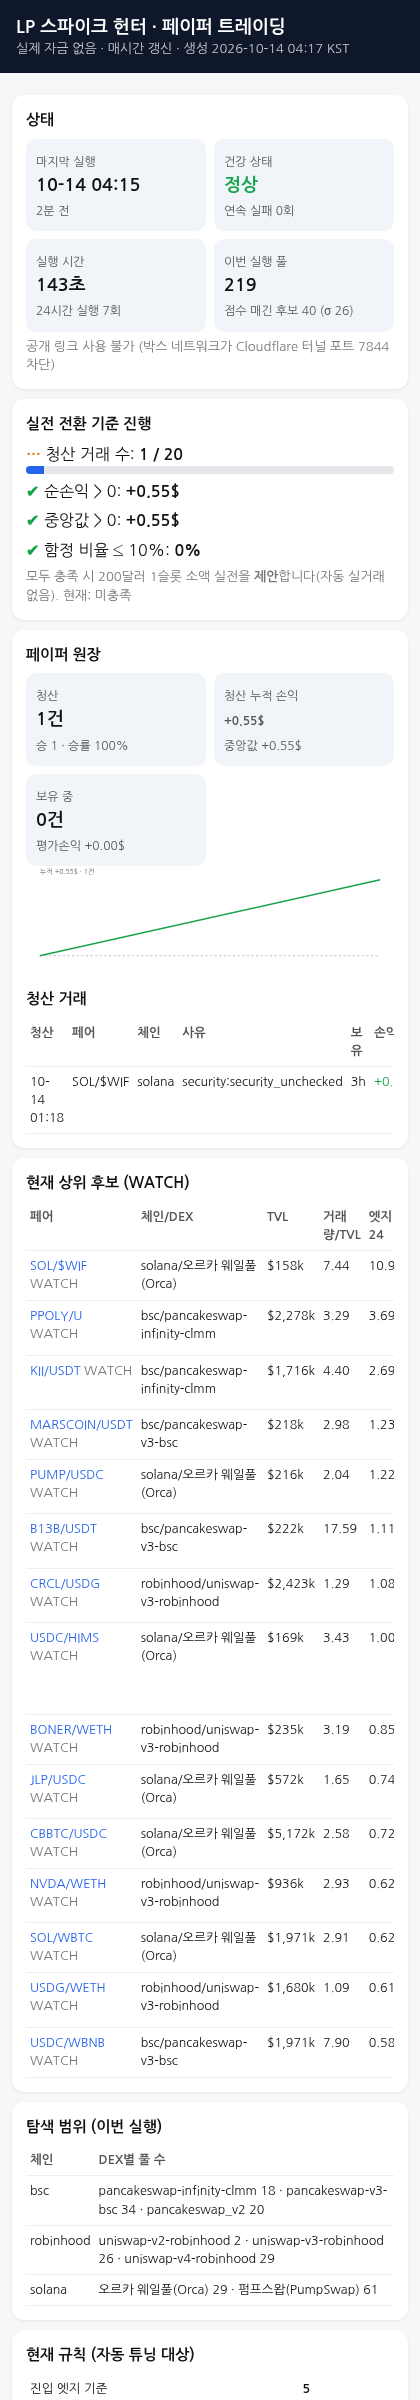
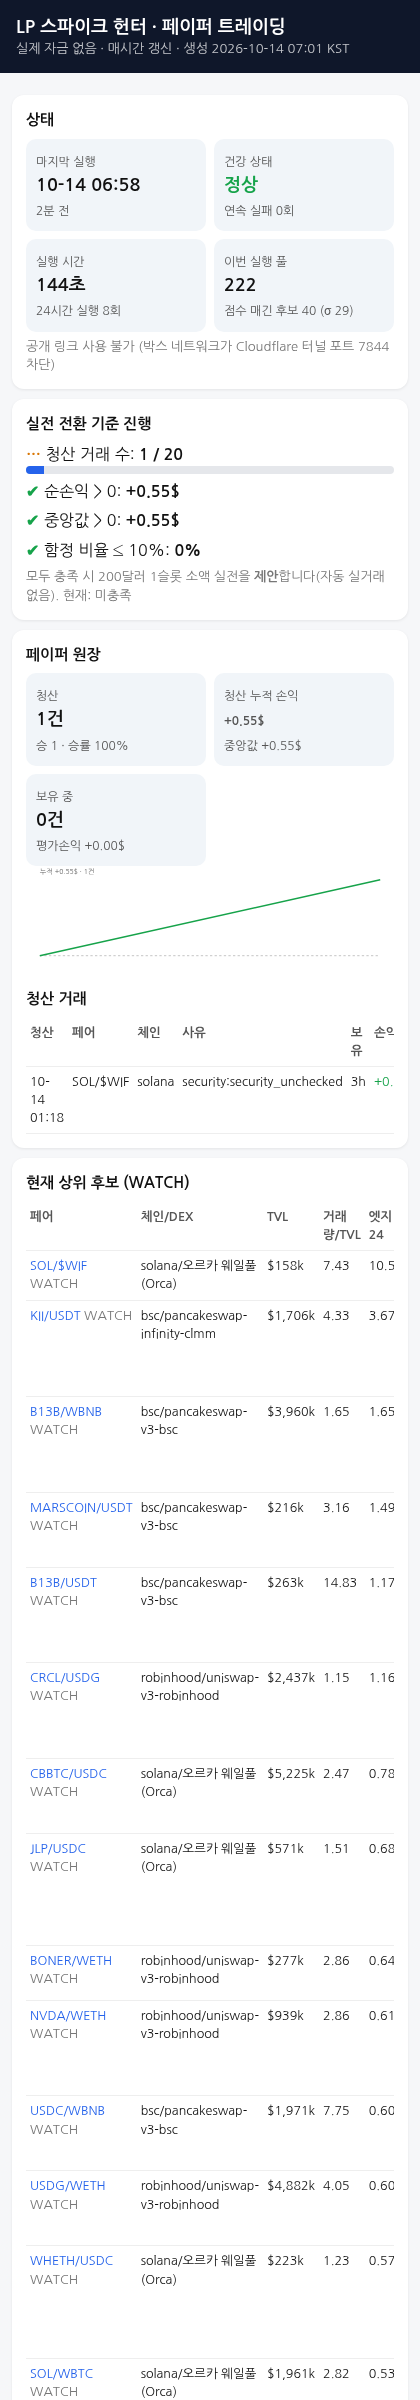
update 2026-10-14 07:01 KST

diff --git a/index.html b/index.html
@@ -12,12 +12,12 @@ th{color:#555;font-weight:600} .scroll{overflow-x:auto} .pos{color:#16a34a} .neg
 .bar{height:8px;background:#e5e7eb;border-radius:4px;overflow:hidden} .bar i{display:block;height:100%;background:#2563eb}
 .chart{width:100%;height:auto} a{color:#2563eb;text-decoration:none} .chg{color:#7c3aed;font-weight:600}
 </style></head><body>
-<header><h1>LP 스파이크 헌터 · 페이퍼 트레이딩</h1><div class="sub">실제 자금 없음 · 매시간 갱신 · 생성 2026-10-14 04:17 KST</div></header><main>
+<header><h1>LP 스파이크 헌터 · 페이퍼 트레이딩</h1><div class="sub">실제 자금 없음 · 매시간 갱신 · 생성 2026-10-14 07:01 KST</div></header><main>
 <div class="card"><h2>상태</h2><div class="grid">
-<div class="kpi"><span>마지막 실행</span><b>10-14 04:15</b><span>2분 전</span></div>
+<div class="kpi"><span>마지막 실행</span><b>10-14 06:58</b><span>2분 전</span></div>
 <div class="kpi"><span>건강 상태</span><b class="ok">정상</b><span>연속 실패 0회</span></div>
-<div class="kpi"><span>실행 시간</span><b>143초</b><span>24시간 실행 7회</span></div>
-<div class="kpi"><span>이번 실행 풀</span><b>219</b><span>점수 매긴 후보 40 (σ 26)</span></div>
+<div class="kpi"><span>실행 시간</span><b>144초</b><span>24시간 실행 8회</span></div>
+<div class="kpi"><span>이번 실행 풀</span><b>222</b><span>점수 매긴 후보 40 (σ 29)</span></div>
 </div><div class="muted" style="margin-top:6px">공개 링크 사용 불가 (박스 네트워크가 Cloudflare 터널 포트 7844 차단)</div></div>
 <div class="card"><h2>실전 전환 기준 진행</h2>
 <div style="margin:6px 0"><b class="warn">…</b> 청산 거래 수: <b>1 / 20</b><div class="bar"><i style="width:5%"></i></div></div>
@@ -35,26 +35,26 @@ th{color:#555;font-weight:600} .scroll{overflow-x:auto} .pos{color:#16a34a} .neg
 </table></div>
 </div>
 <div class="card"><h2>현재 상위 후보 (WATCH)</h2><div class="scroll"><table><tr><th>페어</th><th>체인/DEX</th><th>TVL</th><th>거래량/TVL</th><th>엣지24</th><th>엣지6</th><th>진입 안 하는 이유</th></tr>
-<tr><td><a href='https://www.geckoterminal.com/solana/pools/D6NdKrKNQPmRZCCnG1GqXtF7MMoHB7qR6GU5TkG59Qz1'>SOL/$WIF</a> <span class='muted'>WATCH</span></td><td>solana/오르카 웨일풀(Orca)</td><td>$158k</td><td>7.44</td><td>10.97</td><td>4.77</td><td><span class="tag">6h 엣지 부족 (edge6&lt;5)</span><span class="tag">재진입 대기</span></td></tr>
-<tr><td><a href='https://www.geckoterminal.com/bsc/pools/0xe2d5738b246526194b19adf0dcdf5fc511126d276798e8fe5102ed464f7720e2'>PPOLY/U</a> <span class='muted'>WATCH</span></td><td>bsc/pancakeswap-infinity-clmm</td><td>$2,278k</td><td>3.29</td><td>3.69</td><td>2.36</td><td><span class="tag">24h 엣지 부족 (edge24&lt;5)</span><span class="tag">6h 엣지 부족 (edge6&lt;5)</span><span class="tag">보안 플래그 (security:mintable)</span><span class="tag">정산 자산 없음</span><span class="tag">정산 자산 없음</span></td></tr>
-<tr><td><a href='https://www.geckoterminal.com/bsc/pools/0xf43fdb854021ddeb41e06ac1d6e5df475197038ba5d3cba147f469a56870cd1b'>KII/USDT</a> <span class='muted'>WATCH</span></td><td>bsc/pancakeswap-infinity-clmm</td><td>$1,716k</td><td>4.40</td><td>2.69</td><td>2.51</td><td><span class="tag">24h 엣지 부족 (edge24&lt;5)</span><span class="tag">6h 엣지 부족 (edge6&lt;5)</span><span class="tag">보안 플래그 (security:top10_holders=99%)</span><span class="tag">수수료&lt;비용 (fee24&lt;2x_cost)</span></td></tr>
-<tr><td><a href='https://www.geckoterminal.com/bsc/pools/0x14ca9d552ed2cf0d5dfd1f89bc6793a464e2ed16'>MARSCOIN/USDT</a> <span class='muted'>WATCH</span></td><td>bsc/pancakeswap-v3-bsc</td><td>$218k</td><td>2.98</td><td>1.23</td><td>0.82</td><td><span class="tag">24h 엣지 부족 (edge24&lt;5)</span><span class="tag">6h 엣지 부족 (edge6&lt;5)</span><span class="tag">보안 플래그 (security:top10_holders=61%)</span></td></tr>
-<tr><td><a href='https://www.geckoterminal.com/solana/pools/4AFAkCSkSNmra64irggEFd8ZtF4WCtFe51qVaFFNBL2D'>PUMP/USDC</a> <span class='muted'>WATCH</span></td><td>solana/오르카 웨일풀(Orca)</td><td>$216k</td><td>2.04</td><td>1.22</td><td>1.35</td><td><span class="tag">24h 엣지 부족 (edge24&lt;5)</span><span class="tag">6h 엣지 부족 (edge6&lt;5)</span><span class="tag">보안 플래그 (security:transfer_hook_upgradable|top10_holders=60%)</span></td></tr>
-<tr><td><a href='https://www.geckoterminal.com/bsc/pools/0xb754f10cebf50b8862444cf4d6c1cc31a3b71c18'>B13B/USDT</a> <span class='muted'>WATCH</span></td><td>bsc/pancakeswap-v3-bsc</td><td>$222k</td><td>17.59</td><td>1.11</td><td>1.81</td><td><span class="tag">24h 엣지 부족 (edge24&lt;5)</span><span class="tag">6h 엣지 부족 (edge6&lt;5)</span><span class="tag">보안 플래그 (security:security_unchecked)</span><span class="tag">수수료&lt;비용 (fee24&lt;2x_cost)</span></td></tr>
-<tr><td><a href='https://www.geckoterminal.com/robinhood/pools/0x654e4143e82a5824445ade0824351c2a9acd95a8'>CRCL/USDG</a> <span class='muted'>WATCH</span></td><td>robinhood/uniswap-v3-robinhood</td><td>$2,423k</td><td>1.29</td><td>1.08</td><td>2.05</td><td><span class="tag">24h 엣지 부족 (edge24&lt;5)</span><span class="tag">6h 엣지 부족 (edge6&lt;5)</span><span class="tag">보안 플래그 (security:security_unchecked)</span><span class="tag">수수료&lt;비용 (fee24&lt;2x_cost)</span><span class="tag">유동성 이력 부족(&lt;3h) (k_unsettled(&lt;3h liquidity history))</span></td></tr>
-<tr><td><a href='https://www.geckoterminal.com/solana/pools/7iqWWNjubSTjmWXk9eYJViDLZjBN2KjrYt5Z9j8n8exQ'>USDC/HIMS</a> <span class='muted'>WATCH</span></td><td>solana/오르카 웨일풀(Orca)</td><td>$169k</td><td>3.43</td><td>1.00</td><td>0.62</td><td><span class="tag">24h 엣지 부족 (edge24&lt;5)</span><span class="tag">6h 엣지 부족 (edge6&lt;5)</span><span class="tag">보안 플래그 (security:mintable|freezable|balance_mutable_authority|transfer_hook_upgradable|top10_holders=66%)</span><span class="tag">수수료&lt;비용 (fee24&lt;2x_cost)</span><span class="tag">토큰-2022 위험 확장 (t22:HIMS.pausableConfig|HIMS.permanentDelegate)</span></td></tr>
-<tr><td><a href='https://www.geckoterminal.com/robinhood/pools/0xbd5cd6515ca6285941fbc177381dc8ed4844e6b8'>BONER/WETH</a> <span class='muted'>WATCH</span></td><td>robinhood/uniswap-v3-robinhood</td><td>$235k</td><td>3.19</td><td>0.85</td><td>0.24</td><td><span class="tag">24h 엣지 부족 (edge24&lt;5)</span><span class="tag">6h 엣지 부족 (edge6&lt;5)</span><span class="tag">보안 플래그 (security:security_unchecked)</span></td></tr>
-<tr><td><a href='https://www.geckoterminal.com/solana/pools/6NUiVmsNjsi4AfsMsEiaezsaV9N4N1ZrD4jEnuWNRvyb'>JLP/USDC</a> <span class='muted'>WATCH</span></td><td>solana/오르카 웨일풀(Orca)</td><td>$572k</td><td>1.65</td><td>0.74</td><td>0.66</td><td><span class="tag">24h 엣지 부족 (edge24&lt;5)</span><span class="tag">6h 엣지 부족 (edge6&lt;5)</span><span class="tag">보안 플래그 (security:mintable|freezable|top10_holders=81%)</span><span class="tag">수수료&lt;비용 (fee24&lt;2x_cost)</span></td></tr>
-<tr><td><a href='https://www.geckoterminal.com/solana/pools/HxA6SKW5qA4o12fjVgTpXdq2YnZ5Zv1s7SB4FFomsyLM'>CBBTC/USDC</a> <span class='muted'>WATCH</span></td><td>solana/오르카 웨일풀(Orca)</td><td>$5,172k</td><td>2.58</td><td>0.72</td><td>0.69</td><td><span class="tag">24h 엣지 부족 (edge24&lt;5)</span><span class="tag">6h 엣지 부족 (edge6&lt;5)</span><span class="tag">수수료&lt;비용 (fee24&lt;2x_cost)</span></td></tr>
-<tr><td><a href='https://www.geckoterminal.com/robinhood/pools/0x62ab521f71431f78ac374cdbadc6cda3c8916b6c'>NVDA/WETH</a> <span class='muted'>WATCH</span></td><td>robinhood/uniswap-v3-robinhood</td><td>$936k</td><td>2.93</td><td>0.62</td><td>0.81</td><td><span class="tag">24h 엣지 부족 (edge24&lt;5)</span><span class="tag">6h 엣지 부족 (edge6&lt;5)</span><span class="tag">보안 플래그 (security:security_unchecked)</span><span class="tag">수수료&lt;비용 (fee24&lt;2x_cost)</span><span class="tag">유동성 이력 부족(&lt;3h) (k_unsettled(&lt;3h liquidity history))</span></td></tr>
-<tr><td><a href='https://www.geckoterminal.com/solana/pools/B5EwJVDuAauzUEEdwvbuXzbFFgEYnUqqS37TUM1c4PQA'>SOL/WBTC</a> <span class='muted'>WATCH</span></td><td>solana/오르카 웨일풀(Orca)</td><td>$1,971k</td><td>2.91</td><td>0.62</td><td>0.90</td><td><span class="tag">24h 엣지 부족 (edge24&lt;5)</span><span class="tag">6h 엣지 부족 (edge6&lt;5)</span><span class="tag">수수료&lt;비용 (fee24&lt;2x_cost)</span></td></tr>
-<tr><td><a href='https://www.geckoterminal.com/robinhood/pools/0xa9188730fe85be88ad499d7d52b099e800fb0334'>USDG/WETH</a> <span class='muted'>WATCH</span></td><td>robinhood/uniswap-v3-robinhood</td><td>$1,680k</td><td>1.09</td><td>0.61</td><td>0.39</td><td><span class="tag">24h 엣지 부족 (edge24&lt;5)</span><span class="tag">6h 엣지 부족 (edge6&lt;5)</span><span class="tag">수수료&lt;비용 (fee24&lt;2x_cost)</span><span class="tag">유동성 이력 부족(&lt;3h) (k_unsettled(&lt;3h liquidity history))</span></td></tr>
-<tr><td><a href='https://www.geckoterminal.com/bsc/pools/0xf2688fb5b81049dfb7703ada5e770543770612c4'>USDC/WBNB</a> <span class='muted'>WATCH</span></td><td>bsc/pancakeswap-v3-bsc</td><td>$1,971k</td><td>7.90</td><td>0.58</td><td>0.54</td><td><span class="tag">24h 엣지 부족 (edge24&lt;5)</span><span class="tag">6h 엣지 부족 (edge6&lt;5)</span><span class="tag">수수료&lt;비용 (fee24&lt;2x_cost)</span></td></tr>
+<tr><td><a href='https://www.geckoterminal.com/solana/pools/D6NdKrKNQPmRZCCnG1GqXtF7MMoHB7qR6GU5TkG59Qz1'>SOL/$WIF</a> <span class='muted'>WATCH</span></td><td>solana/오르카 웨일풀(Orca)</td><td>$158k</td><td>7.43</td><td>10.59</td><td>2.66</td><td><span class="tag">6h 엣지 부족 (edge6&lt;5)</span><span class="tag">재진입 대기</span></td></tr>
+<tr><td><a href='https://www.geckoterminal.com/bsc/pools/0xf43fdb854021ddeb41e06ac1d6e5df475197038ba5d3cba147f469a56870cd1b'>KII/USDT</a> <span class='muted'>WATCH</span></td><td>bsc/pancakeswap-infinity-clmm</td><td>$1,706k</td><td>4.33</td><td>3.67</td><td>3.36</td><td><span class="tag">24h 엣지 부족 (edge24&lt;5)</span><span class="tag">6h 엣지 부족 (edge6&lt;5)</span><span class="tag">보안 플래그 (security:security_unchecked)</span><span class="tag">수수료&lt;비용 (fee24&lt;2x_cost)</span></td></tr>
+<tr><td><a href='https://www.geckoterminal.com/bsc/pools/0x320e8096e5e7a46e43446141a5b15d801fc596f5'>B13B/WBNB</a> <span class='muted'>WATCH</span></td><td>bsc/pancakeswap-v3-bsc</td><td>$3,960k</td><td>1.65</td><td>1.65</td><td>1.35</td><td><span class="tag">24h 엣지 부족 (edge24&lt;5)</span><span class="tag">6h 엣지 부족 (edge6&lt;5)</span><span class="tag">보안 플래그 (security:top10_holders=61%)</span><span class="tag">수수료&lt;비용 (fee24&lt;2x_cost)</span></td></tr>
+<tr><td><a href='https://www.geckoterminal.com/bsc/pools/0x14ca9d552ed2cf0d5dfd1f89bc6793a464e2ed16'>MARSCOIN/USDT</a> <span class='muted'>WATCH</span></td><td>bsc/pancakeswap-v3-bsc</td><td>$216k</td><td>3.16</td><td>1.49</td><td>0.87</td><td><span class="tag">24h 엣지 부족 (edge24&lt;5)</span><span class="tag">6h 엣지 부족 (edge6&lt;5)</span><span class="tag">보안 플래그 (security:top10_holders=61%)</span></td></tr>
+<tr><td><a href='https://www.geckoterminal.com/bsc/pools/0xb754f10cebf50b8862444cf4d6c1cc31a3b71c18'>B13B/USDT</a> <span class='muted'>WATCH</span></td><td>bsc/pancakeswap-v3-bsc</td><td>$263k</td><td>14.83</td><td>1.17</td><td>1.10</td><td><span class="tag">24h 엣지 부족 (edge24&lt;5)</span><span class="tag">6h 엣지 부족 (edge6&lt;5)</span><span class="tag">보안 플래그 (security:top10_holders=61%)</span><span class="tag">수수료&lt;비용 (fee24&lt;2x_cost)</span></td></tr>
+<tr><td><a href='https://www.geckoterminal.com/robinhood/pools/0x654e4143e82a5824445ade0824351c2a9acd95a8'>CRCL/USDG</a> <span class='muted'>WATCH</span></td><td>robinhood/uniswap-v3-robinhood</td><td>$2,437k</td><td>1.15</td><td>1.16</td><td>0.33</td><td><span class="tag">24h 엣지 부족 (edge24&lt;5)</span><span class="tag">6h 엣지 부족 (edge6&lt;5)</span><span class="tag">보안 플래그 (security:security_unchecked)</span><span class="tag">수수료&lt;비용 (fee24&lt;2x_cost)</span></td></tr>
+<tr><td><a href='https://www.geckoterminal.com/solana/pools/HxA6SKW5qA4o12fjVgTpXdq2YnZ5Zv1s7SB4FFomsyLM'>CBBTC/USDC</a> <span class='muted'>WATCH</span></td><td>solana/오르카 웨일풀(Orca)</td><td>$5,225k</td><td>2.47</td><td>0.78</td><td>0.34</td><td><span class="tag">24h 엣지 부족 (edge24&lt;5)</span><span class="tag">6h 엣지 부족 (edge6&lt;5)</span><span class="tag">수수료&lt;비용 (fee24&lt;2x_cost)</span></td></tr>
+<tr><td><a href='https://www.geckoterminal.com/solana/pools/6NUiVmsNjsi4AfsMsEiaezsaV9N4N1ZrD4jEnuWNRvyb'>JLP/USDC</a> <span class='muted'>WATCH</span></td><td>solana/오르카 웨일풀(Orca)</td><td>$571k</td><td>1.51</td><td>0.68</td><td>0.31</td><td><span class="tag">24h 엣지 부족 (edge24&lt;5)</span><span class="tag">6h 엣지 부족 (edge6&lt;5)</span><span class="tag">보안 플래그 (security:mintable|freezable|top10_holders=81%)</span><span class="tag">수수료&lt;비용 (fee24&lt;2x_cost)</span></td></tr>
+<tr><td><a href='https://www.geckoterminal.com/robinhood/pools/0xbd5cd6515ca6285941fbc177381dc8ed4844e6b8'>BONER/WETH</a> <span class='muted'>WATCH</span></td><td>robinhood/uniswap-v3-robinhood</td><td>$277k</td><td>2.86</td><td>0.64</td><td>0.45</td><td><span class="tag">24h 엣지 부족 (edge24&lt;5)</span><span class="tag">6h 엣지 부족 (edge6&lt;5)</span></td></tr>
+<tr><td><a href='https://www.geckoterminal.com/robinhood/pools/0x62ab521f71431f78ac374cdbadc6cda3c8916b6c'>NVDA/WETH</a> <span class='muted'>WATCH</span></td><td>robinhood/uniswap-v3-robinhood</td><td>$939k</td><td>2.86</td><td>0.61</td><td>0.35</td><td><span class="tag">24h 엣지 부족 (edge24&lt;5)</span><span class="tag">6h 엣지 부족 (edge6&lt;5)</span><span class="tag">보안 플래그 (security:security_unchecked)</span><span class="tag">수수료&lt;비용 (fee24&lt;2x_cost)</span></td></tr>
+<tr><td><a href='https://www.geckoterminal.com/bsc/pools/0xf2688fb5b81049dfb7703ada5e770543770612c4'>USDC/WBNB</a> <span class='muted'>WATCH</span></td><td>bsc/pancakeswap-v3-bsc</td><td>$1,971k</td><td>7.75</td><td>0.60</td><td>0.28</td><td><span class="tag">24h 엣지 부족 (edge24&lt;5)</span><span class="tag">6h 엣지 부족 (edge6&lt;5)</span><span class="tag">수수료&lt;비용 (fee24&lt;2x_cost)</span></td></tr>
+<tr><td><a href='https://www.geckoterminal.com/robinhood/pools/0x69bfaf19c9f377bb306a89aed9f6b07e2c1a8d9a'>USDG/WETH</a> <span class='muted'>WATCH</span></td><td>robinhood/uniswap-v3-robinhood</td><td>$4,882k</td><td>4.05</td><td>0.60</td><td>0.23</td><td><span class="tag">24h 엣지 부족 (edge24&lt;5)</span><span class="tag">6h 엣지 부족 (edge6&lt;5)</span><span class="tag">수수료&lt;비용 (fee24&lt;2x_cost)</span></td></tr>
+<tr><td><a href='https://www.geckoterminal.com/solana/pools/AU971DrPyhhrpRnmEBp5pDTWL2ny7nofb5vYBjDJkR2E'>WHETH/USDC</a> <span class='muted'>WATCH</span></td><td>solana/오르카 웨일풀(Orca)</td><td>$223k</td><td>1.23</td><td>0.57</td><td>0.21</td><td><span class="tag">24h 엣지 부족 (edge24&lt;5)</span><span class="tag">6h 엣지 부족 (edge6&lt;5)</span><span class="tag">보안 플래그 (security:mintable|top10_holders=77%)</span><span class="tag">수수료&lt;비용 (fee24&lt;2x_cost)</span></td></tr>
+<tr><td><a href='https://www.geckoterminal.com/solana/pools/B5EwJVDuAauzUEEdwvbuXzbFFgEYnUqqS37TUM1c4PQA'>SOL/WBTC</a> <span class='muted'>WATCH</span></td><td>solana/오르카 웨일풀(Orca)</td><td>$1,961k</td><td>2.82</td><td>0.53</td><td>0.59</td><td><span class="tag">24h 엣지 부족 (edge24&lt;5)</span><span class="tag">6h 엣지 부족 (edge6&lt;5)</span><span class="tag">수수료&lt;비용 (fee24&lt;2x_cost)</span></td></tr>
+<tr><td><a href='https://www.geckoterminal.com/solana/pools/5hWJUNTtEtKmKgDXpthJXXRRmJrz5vJ7uJzrUNVdrwLg'>USDC/JITOSOL</a> <span class='muted'>WATCH</span></td><td>solana/오르카 웨일풀(Orca)</td><td>$308k</td><td>1.35</td><td>0.53</td><td>0.27</td><td><span class="tag">24h 엣지 부족 (edge24&lt;5)</span><span class="tag">6h 엣지 부족 (edge6&lt;5)</span><span class="tag">수수료&lt;비용 (fee24&lt;2x_cost)</span></td></tr>
 </table></div></div>
 <div class="card"><h2>탐색 범위 (이번 실행)</h2><table><tr><th>체인</th><th>DEX별 풀 수</th></tr>
-<tr><td>bsc</td><td>pancakeswap-infinity-clmm 18 · pancakeswap-v3-bsc 34 · pancakeswap_v2 20</td></tr>
-<tr><td>robinhood</td><td>uniswap-v2-robinhood 2 · uniswap-v3-robinhood 26 · uniswap-v4-robinhood 29</td></tr>
-<tr><td>solana</td><td>오르카 웨일풀(Orca) 29 · 펌프스왑(PumpSwap) 61</td></tr>
+<tr><td>bsc</td><td>pancakeswap-infinity-clmm 11 · pancakeswap-v3-bsc 35 · pancakeswap_v2 21</td></tr>
+<tr><td>robinhood</td><td>uniswap-v2-robinhood 2 · uniswap-v3-robinhood 27 · uniswap-v4-robinhood 31</td></tr>
+<tr><td>solana</td><td>오르카 웨일풀(Orca) 29 · 펌프스왑(PumpSwap) 66</td></tr>
 </table></div>
 <div class="card"><h2>현재 규칙 (자동 튜닝 대상)</h2><table>
 <tr><td>진입 엣지 기준</td><td><b>5</b></td></tr>
@@ -66,6 +66,7 @@ th{color:#555;font-weight:600} .scroll{overflow-x:auto} .pos{color:#16a34a} .neg
 <tr><td>수수료/비용 배수</td><td><b>2</b></td></tr>
 <tr><td>급증 필터</td><td><b>0</b></td></tr>
 </table><h2 style="margin-top:12px">튜닝 기록 (최근)</h2>
+<div style="margin:6px 0;font-size:13px"><b class="muted">2026-10-14 07:01 KST</b> 유지 2026-10-14 07:01 KST: {&#x27;E&#x27;: 5, &#x27;W&#x27;: 0.15, &#x27;H&#x27;: 48, &#x27;X&#x27;: 1.0, &#x27;LL&#x27;: 0.3, &#x27;T&#x27;: 1.0, &#x27;FC&#x27;: 2} 유지. 이유: no improve (mean +7.11%→+7.06%, median +3.21%→+3.08%). 현재 OOS n=53 hit 81% mean +7.11% median +3.21% Σ $+753 / 후보 {&#x27;E&#x27;: 5, &#x27;W&#x27;: 0.15, &#x27;H&#x27;: 48, &#x27;X&#x27;: 0.5, &#x27;LL&#x27;: 0.3, &#x27;T&#x27;: 1.0, &#x27;FC&#x27;: 1} OOS n=53 hit 81% mean +7.06% median +3.08% Σ $+748. 페이퍼 청산 1건 Σ $+0.55. (4.4s)</div>
 <div style="margin:6px 0;font-size:13px"><b class="muted">2026-10-14 04:17 KST</b> 유지 2026-10-14 04:17 KST: {&#x27;E&#x27;: 5, &#x27;W&#x27;: 0.15, &#x27;H&#x27;: 48, &#x27;X&#x27;: 1.0, &#x27;LL&#x27;: 0.3, &#x27;T&#x27;: 1.0, &#x27;FC&#x27;: 2} 유지. 이유: no improve (mean +7.11%→+7.06%, median +3.21%→+3.08%). 현재 OOS n=53 hit 81% mean +7.11% median +3.21% Σ $+753 / 후보 {&#x27;E&#x27;: 5, &#x27;W&#x27;: 0.15, &#x27;H&#x27;: 48, &#x27;X&#x27;: 0.5, &#x27;LL&#x27;: 0.3, &#x27;T&#x27;: 1.0, &#x27;FC&#x27;: 1} OOS n=53 hit 81% mean +7.06% median +3.08% Σ $+748. 페이퍼 청산 1건 Σ $+0.55. (3.9s)</div>
 <div style="margin:6px 0;font-size:13px"><b class="muted">2026-10-14 01:21 KST</b> 유지 2026-10-14 01:21 KST: {&#x27;E&#x27;: 5, &#x27;W&#x27;: 0.15, &#x27;H&#x27;: 48, &#x27;X&#x27;: 1.0, &#x27;LL&#x27;: 0.3, &#x27;T&#x27;: 1.0, &#x27;FC&#x27;: 2} 유지. 이유: no improve (mean +7.11%→+7.06%, median +3.21%→+3.08%). 현재 OOS n=53 hit 81% mean +7.11% median +3.21% Σ $+753 / 후보 {&#x27;E&#x27;: 5, &#x27;W&#x27;: 0.15, &#x27;H&#x27;: 48, &#x27;X&#x27;: 0.5, &#x27;LL&#x27;: 0.3, &#x27;T&#x27;: 1.0, &#x27;FC&#x27;: 1} OOS n=53 hit 81% mean +7.06% median +3.08% Σ $+748. 페이퍼 청산 1건 Σ $+0.55. (3.8s)</div>
 <div style="margin:6px 0;font-size:13px"><b class="muted">2026-10-13 22:12 KST</b> 유지 2026-10-13 22:12 KST: {&#x27;E&#x27;: 5, &#x27;W&#x27;: 0.15, &#x27;H&#x27;: 48, &#x27;X&#x27;: 1.0, &#x27;LL&#x27;: 0.3, &#x27;T&#x27;: 1.0, &#x27;FC&#x27;: 2} 유지. 이유: no improve (mean +7.11%→+7.06%, median +3.21%→+3.08%). 현재 OOS n=53 hit 81% mean +7.11% median +3.21% Σ $+753 / 후보 {&#x27;E&#x27;: 5, &#x27;W&#x27;: 0.15, &#x27;H&#x27;: 48, &#x27;X&#x27;: 0.5, &#x27;LL&#x27;: 0.3, &#x27;T&#x27;: 1.0, &#x27;FC&#x27;: 1} OOS n=53 hit 81% mean +7.06% median +3.08% Σ $+748. 페이퍼 청산 0건 Σ $+0.00. (3.8s)</div>
@@ -80,6 +81,5 @@ th{color:#555;font-weight:600} .scroll{overflow-x:auto} .pos{color:#16a34a} .neg
 <div style="margin:6px 0;font-size:13px"><b class="muted">2026-10-08 10:03 KST</b> 유지 2026-10-08 10:03 KST: {&#x27;E&#x27;: 5, &#x27;W&#x27;: 0.15, &#x27;H&#x27;: 48, &#x27;X&#x27;: 1.0, &#x27;LL&#x27;: 0.3, &#x27;T&#x27;: 1.0, &#x27;FC&#x27;: 2} 유지. 이유: no improve (mean +7.11%→+7.06%, median +3.21%→+3.08%). 현재 OOS n=53 hit 81% mean +7.11% median +3.21% Σ $+753 / 후보 {&#x27;E&#x27;: 5, &#x27;W&#x27;: 0.15, &#x27;H&#x27;: 48, &#x27;X&#x27;: 0.5, &#x27;LL&#x27;: 0.3, &#x27;T&#x27;: 1.0, &#x27;FC&#x27;: 1} OOS n=53 hit 81% mean +7.06% median +3.08% Σ $+748. 페이퍼 청산 0건 Σ $+0.00. (3.9s)</div>
 <div style="margin:6px 0;font-size:13px"><b class="muted">2026-10-07 13:04 KST</b> 유지 2026-10-07 13:04 KST: {&#x27;E&#x27;: 5, &#x27;W&#x27;: 0.15, &#x27;H&#x27;: 48, &#x27;X&#x27;: 1.0, &#x27;LL&#x27;: 0.3, &#x27;T&#x27;: 1.0, &#x27;FC&#x27;: 2} 유지. 이유: no improve (mean +7.11%→+7.06%, median +3.21%→+3.08%). 현재 OOS n=53 hit 81% mean +7.11% median +3.21% Σ $+753 / 후보 {&#x27;E&#x27;: 5, &#x27;W&#x27;: 0.15, &#x27;H&#x27;: 48, &#x27;X&#x27;: 0.5, &#x27;LL&#x27;: 0.3, &#x27;T&#x27;: 1.0, &#x27;FC&#x27;: 1} OOS n=53 hit 81% mean +7.06% median +3.08% Σ $+748. 페이퍼 청산 0건 Σ $+0.00. (3.7s)</div>
 <div style="margin:6px 0;font-size:13px"><b class="muted">2026-10-07 11:06 KST</b> 유지 2026-10-07 11:06 KST: {&#x27;E&#x27;: 5, &#x27;W&#x27;: 0.15, &#x27;H&#x27;: 48, &#x27;X&#x27;: 1.0, &#x27;LL&#x27;: 0.3, &#x27;T&#x27;: 1.0, &#x27;FC&#x27;: 2} 유지. 이유: no improve (mean +7.11%→+7.06%, median +3.21%→+3.08%). 현재 OOS n=53 hit 81% mean +7.11% median +3.21% Σ $+753 / 후보 {&#x27;E&#x27;: 5, &#x27;W&#x27;: 0.15, &#x27;H&#x27;: 48, &#x27;X&#x27;: 0.5, &#x27;LL&#x27;: 0.3, &#x27;T&#x27;: 1.0, &#x27;FC&#x27;: 1} OOS n=53 hit 81% mean +7.06% median +3.08% Σ $+748. 페이퍼 청산 0건 Σ $+0.00. (3.7s)</div>
-<div style="margin:6px 0;font-size:13px"><b class="muted">2026-10-07 10:03 KST</b> 유지 2026-10-07 10:03 KST: {&#x27;E&#x27;: 5, &#x27;W&#x27;: 0.15, &#x27;H&#x27;: 48, &#x27;X&#x27;: 1.0, &#x27;LL&#x27;: 0.3, &#x27;T&#x27;: 1.0, &#x27;FC&#x27;: 2} 유지. 이유: no improve (mean +7.11%→+7.06%, median +3.21%→+3.08%). 현재 OOS n=53 hit 81% mean +7.11% median +3.21% Σ $+753 / 후보 {&#x27;E&#x27;: 5, &#x27;W&#x27;: 0.15, &#x27;H&#x27;: 48, &#x27;X&#x27;: 0.5, &#x27;LL&#x27;: 0.3, &#x27;T&#x27;: 1.0, &#x27;FC&#x27;: 1} OOS n=53 hit 81% mean +7.06% median +3.08% Σ $+748. 페이퍼 청산 0건 Σ $+0.00. (3.6s)</div>
 </div>
 <div class="muted" style="text-align:center;margin:16px">페이퍼(가상) 결과만 표시합니다. 지갑·키·자금 정보는 포함하지 않습니다. 5분마다 자동 새로고침.</div></main></body></html>
